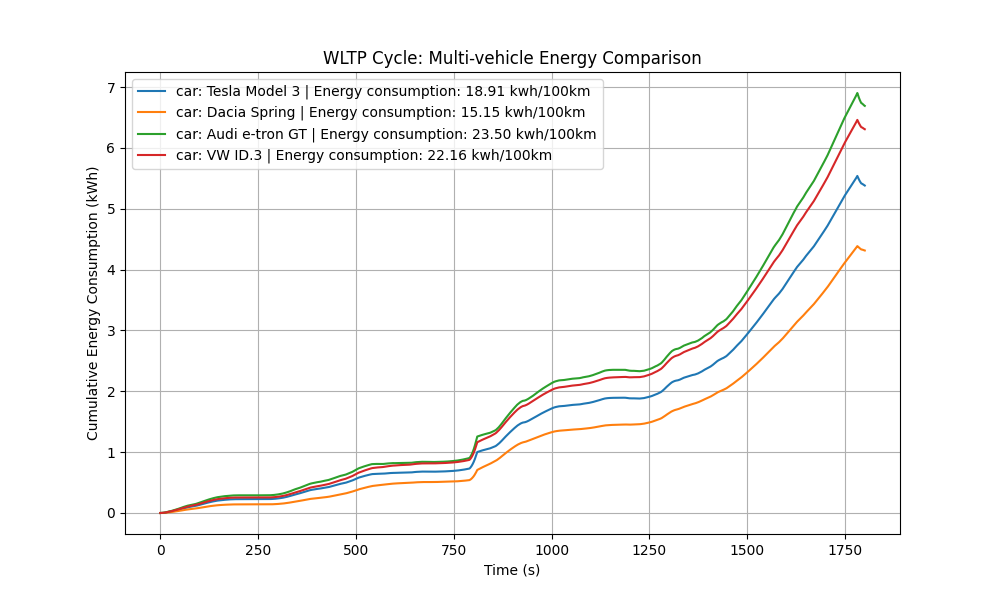
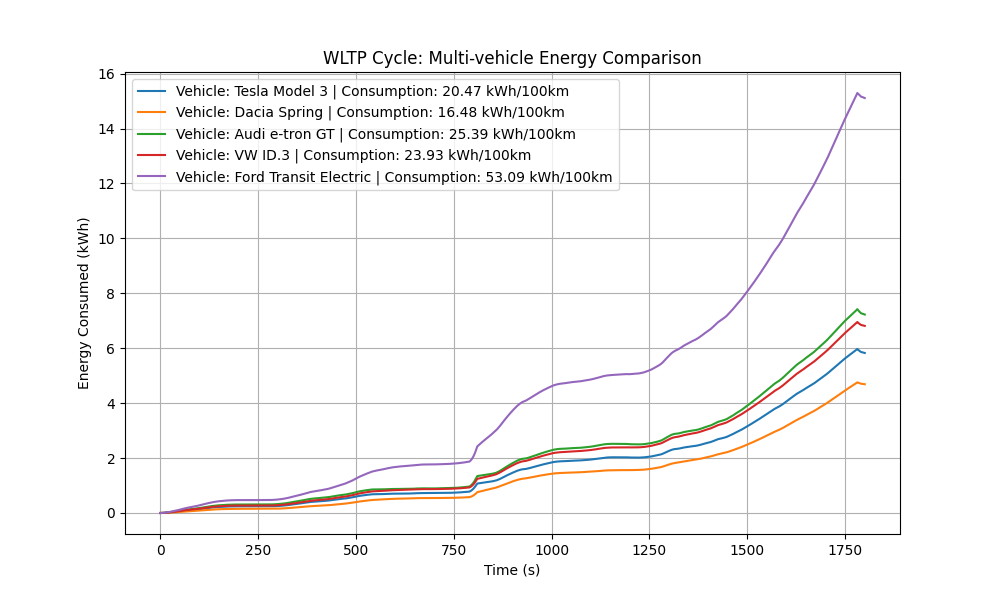
docs: updated the README to the final version

diff --git a/main.py b/main.py
@@ -30,16 +30,19 @@ for cid in car_data_id:
     })
     
     plt.plot(result_df['time(s)'],
-             result_df['battery_power_w'],
-            label=f"car: {pretty_name} | Battery Power: {result_df['battery_power_w'].max() / 1000:.2f} kW",
+             result_df['cumulative_energy_kwh'],
+            label=f"Vehicle: {pretty_name} | Consumption: {result_df['kwh_per_100km'].iloc[0]:.2f} kWh/100km",
     ) 
+    # visualization.plot_efficiency_check(result_df, pretty_name)
     
 plt.title("WLTP Cycle: Multi-vehicle Energy Comparison")
 plt.xlabel("Time (s)")
-plt.ylabel("Motor RPM")
+plt.ylabel("Energy Consumed (kWh)")
 plt.legend()
 plt.grid(True)
 plt.show()
+
+
 
 import pandas as pd
 summary_df = pd.DataFrame(results)

diff --git a/README.md b/README.md
@@ -1,37 +1,63 @@
-Vehicle Energy % Driving Analysis Tool (V1.0)
----------------------------------------------
+# 🚗 Vehicle Energy & Driving Analysis Tool (v2.0)
 
-A python based tool to analyse vehicle energy consumption and driving efficiency using longitudinal dynamics.
+![Multi-Vehicle Comparison](docs/Figure_1.png)
 
-Features:
----------
+A modular Python-based framework designed to simulate real-world energy consumption and range for Electric Vehicles (EVs). I used a 1D longitudinal physics engine combined with a non-linear powertrain efficiency model to benchmark different vehicle architectures across standardized driving cycles.
 
-*   **Physics Engine**: Calculates aerodynamic drag, rolling resistance and acceleration forces.
-    
-*   **Regenerative Braking:** Simulates energy recovery during deceleration phases.
-    
-*   **Data visualization**: Generates a 3-panel analysis of Speed, Power and Cumulative Energy.
-    
+## 🌟 Key Features
+- **Longitudinal Physics Engine:** Calculates instantaneous forces including aerodynamic drag, rolling resistance, gradient force (road slope), and inertial acceleration force.
+- **Terrain-Aware Simulation:** Integrates a "random walk" road gradient model to simulate real-world elevation changes.
+- **Powertrain Modeling:**
+  - Calculates motor RPM and torque based on gear ratios and wheel radious.
+  - Implements a non-linear motor efficiency map to simulate heat losses during traction and regenerative braking.
+- **Standardized Benchmarking:** Uses a WLTP-like driving cycle (urban, suburban, rural, and highway phases).
+- **JSON-Driven Architecture:** Easily expandable vehicle database.
 
-Example restult:
-----------------
+## 📊 Benchmarking Results (v2.0)
+The following results were generated using a 30-minute WLTP cycle with integrated 4% maximum road gradients.
 
-_Energy consumption: 9.21 kWh/100km_
+| Vehicle | Consumption (kWh/100km) | Heat Loss (%) | Battery Size | Predicted Range |
+|---------|-------------------------|--------------|--------------|----------------|
+| Tesla Model 3 | 20.4 | 7.6% | 75.0 kWh | 366.4 km |
+| Audi e-tron GT | 25.3 | 7.4% | 97.0 kWh | 382.1 km |
+| VW ID.3 | 23.9 | 7.4% | 77.0 kWh | 321.7 km |
+| Dacia Spring | 16.4 | 8.0% | 26.8 kWh | 162.7 km |
+| Ford Transit Electric | 53.0 | 7.3% | 68.0 kWh | 128.1 km |
 
-How to run?
------------
 
-1.  **Install dependencies:**
-```bash 
-pip install -r requirements.txt
-```
-    
-2.  **Generate data:**
-```bash 
-python src/generate_data.py
-```
-    
-3.  **Run analysis:** 
-```bash 
-python main.py
- ```
+
+## 🔍 Engineering Insights
+- **Aerodynamic Sensitivity:** The Ford Transit demonstrates the massive impact of frontal area ($5.4m^2$) on highway energy consumption, consuming nearly *2.5 times* more energy than the Tesla Model 3.
+- **The Efficiency Tax:** The Dacia Spring shows the highest heat loss percentage (8%). This is attributed to its smaller wheel radius, requiring higher motor RPMs to maintain highway speeds, pushing the motor outside its peak efficiency "island." 
+- **Mass vs. Efficiency:** While the Audi e-tron GT is the heaviest in the fleet, its superior aerodynamics and large battery allow it to maintain the highest total range despite a high consumption rate.
+
+![Multi-Vehicle Comparison](docs/Figure_2.png)
+
+## 🛠 Tech Stack & Methodology
+- **Language:** Python 3.x
+- **Data Processing:** pandas, numpy *(Vectorized calculations for high performance)*
+- **Visualization:** matplotlib
+- **Physics Logic:**
+
+Drag Force: 
+$F_d = \frac{1}{2} \rho v^2 C_d A$
+
+Rolling Resistance:
+$F_{rr} = C_{rr} m g \cos(\theta)$
+
+Gradient Force: 
+$F_g = m g \sin(\theta)$
+
+Battery Power: Calculated as $P_{wheels} / \eta_{motor}$ during traction and $P_{wheels} \cdot \eta_{motor}$ during regeneration.
+
+Rolling Resistance: F_{rr} = C_{rr} m g  (	heta)
+Gradient Force: F_g = m g  (	heta)
+battery Power: Calculated as P_{wheels} / ta_{motor} during traction and P_{wheels} ta_{motor} during regeneration.
+
+
+## 🚀 How to Run
+1. Clone the repository.
+2. Install dependencies:
+pip install pandas numpy matplotlib
+3. Run the analysis:
+printf main.py
